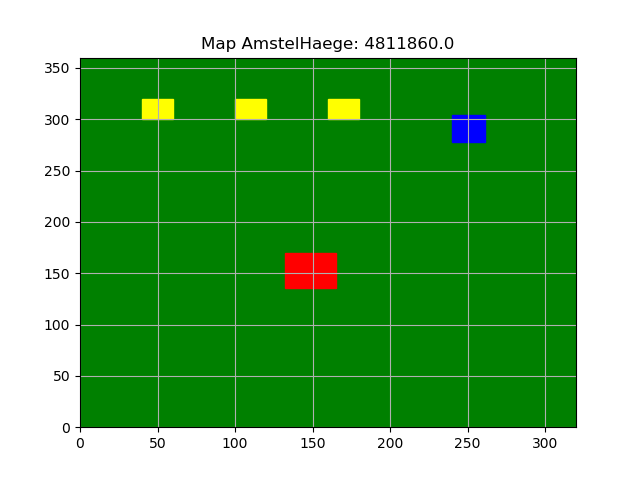
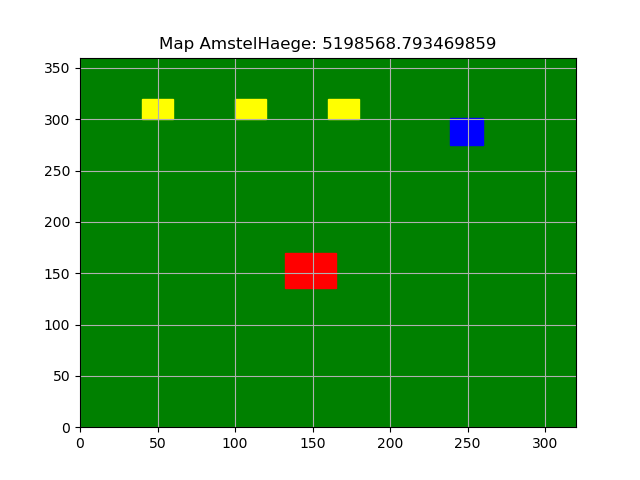
try

Changed region(s): [[0.25, 0.0625, 0.7812, 0.125], [0.6875, 0.2188, 0.7812, 0.3125]]

diff --git a/AmstelHaege/code/hill_climber_random.py b/AmstelHaege/code/hill_climber_random.py
@@ -63,7 +63,7 @@ def main():
             # rdm_amstelhaege.plot_distribution()
 
             if rdm_amstelhaege.value > total_value:
-                print(rdm_amstelhaege.value)
+                # print(rdm_amstelhaege.value)
                 # rdm_amstelhaege.plot_distribution()
                 list_x_values.append(counter_iteration)
 
@@ -72,7 +72,7 @@ def main():
                 # best_plot = rdm_amstelhaege
                 # counter += 1
                 # rdm_amstelhaege.plot_distribution()
-                print("more")
+                # print("more")
                 # file.write(str(total_value)+ "\n")
                 # print(total_value)
                 # print(rdm_amstelhaege.houses_placed[0].x)
@@ -85,13 +85,13 @@ def main():
     print(endtime.strftime("%Y-%m-%d %H:%M:%S")+ "\n")
     # file.write(str(total_value))
     # file.close()
-    print(total_value)
-    rdm_amstelhaege.calculate_totalvalue
+    # print(total_value)
+    rdm_amstelhaege.calculate_totalvalue()
+    print(rdm_amstelhaege.value)
     # print(best_plot.houses_placed[0].x)
     # print(best_plot.houses_placed[1].x)
     fig = rdm_amstelhaege.plot_distribution()
     fig.savefig('greedy_obj_hillclimber1.png')
-    plt.show(fig)
     plt.close(fig)
     print(list_random_climber_values)
     # the histogram of the data

diff --git a/AmstelHaege/code/hill_climber_rdm_sys.py b/AmstelHaege/code/hill_climber_rdm_sys.py
@@ -17,10 +17,10 @@ def main():
 
     # rdm_amstelhaege = Area(20)
     # rdm_amstelhaege.place_houses()
-    rdm_amstelhaege = greedy_obj_func.greedy_obj(20)
+    rdm_amstelhaege = greedy_obj_func.greedy_obj(2)
     rdm_amstelhaege.calculate_totalvalue()
     total_value = rdm_amstelhaege.value
-    rdm_amstelhaege.plot_distribution()
+    # rdm_amstelhaege.plot_distribution()
     print(total_value)
     # best_plot = rdm_amstelhaege
     # file = open("values_systematic_20_06122018.txt", "w")
@@ -29,7 +29,7 @@ def main():
     values = []
 
     try:
-        for i in range(10):
+        for i in range(2):
             index = randint(0, (len(rdm_amstelhaege.houses_placed) - 1))
             print(index)
 
@@ -81,14 +81,16 @@ def main():
 
     endtime = datetime.datetime.now()
     print(endtime.strftime("%Y-%m-%d %H:%M:%S")+ "\n")
+    rdm_amstelhaege.calculate_totalvalue()
     print(values)
+    print(rdm_amstelhaege.value)
     # file.write(str(total_value))
     # file.close()
     # print(total_value)
     # print(best_plot.houses_placed[0].x)
     # print(best_plot.houses_placed[1].x)
     fig = rdm_amstelhaege.plot_distribution()
-    fig.savefig('rand_sys.png')
+    fig.savefig('rand_sys1 .png')
 
 if __name__ == "__main__":
     main()

diff --git a/AmstelHaege/code/greedy_obj_func.py b/AmstelHaege/code/greedy_obj_func.py
@@ -217,4 +217,6 @@ def greedy_obj(n):
     return amstelhaege
 
 if __name__ == "__main__":
-    greedy_obj(20)
+    greedy = greedy_obj(5)
+    greedy.plot_distribution()
+    plt.show()
